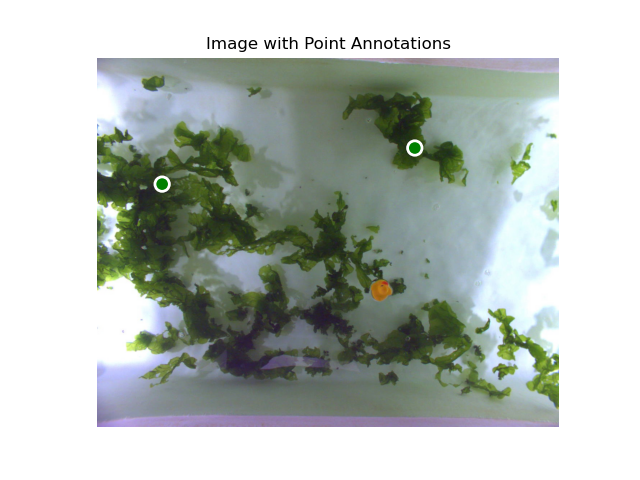
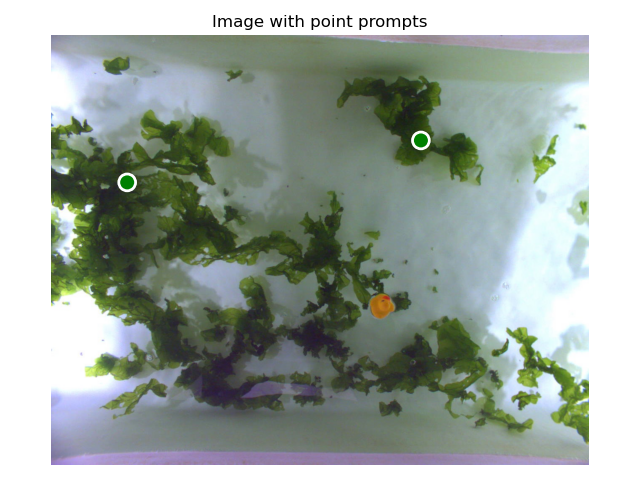
Imlement multi-point prompting

diff --git a/src/utils.py b/src/utils.py
@@ -20,10 +20,11 @@ def visualize_and_save(input_path, video_frames, points, video_res_masks, ann_fr
 
     # Plot original image with point annotation
     axes[0].imshow(frame)
-    for point_list in points:
-        for point in point_list[0]:
-            axes[0].add_patch(Circle((point[0], point[1]), 5, color='green', fill=True))
-            axes[0].add_patch(Circle((point[0], point[1]), 5, color='white', fill=False, lw=2))
+    for obj_points in points:
+        for point_list in obj_points:
+            for point in point_list:
+                plt.gca().add_patch(Circle((point[0], point[1]), 20, color='green', fill=True))
+                plt.gca().add_patch(Circle((point[0], point[1]), 20, color='white', fill=False, lw=2))
     axes[0].set_title('Image with prompt')
     axes[0].axis('off')
 

diff --git a/src/sam_prompter.py b/src/sam_prompter.py
@@ -59,11 +59,12 @@ def main(data_dir, model):
                 plt.gca().add_patch(Circle((point[0], point[1]), 20, color='green', fill=True))
                 plt.gca().add_patch(Circle((point[0], point[1]), 20, color='white', fill=False, lw=2))
 
-    plt.title('Image with Point Annotations')
+    plt.title('Image with point prompts')
     plt.axis('off')
+    plt.tight_layout()
     plt.savefig("doc/prompt_test.png")
-    plt.show()
 
+    # Inputs into processor
     processor.add_inputs_to_inference_session(
         inference_session=inference_session,
         frame_idx=ann_frame_idx,
